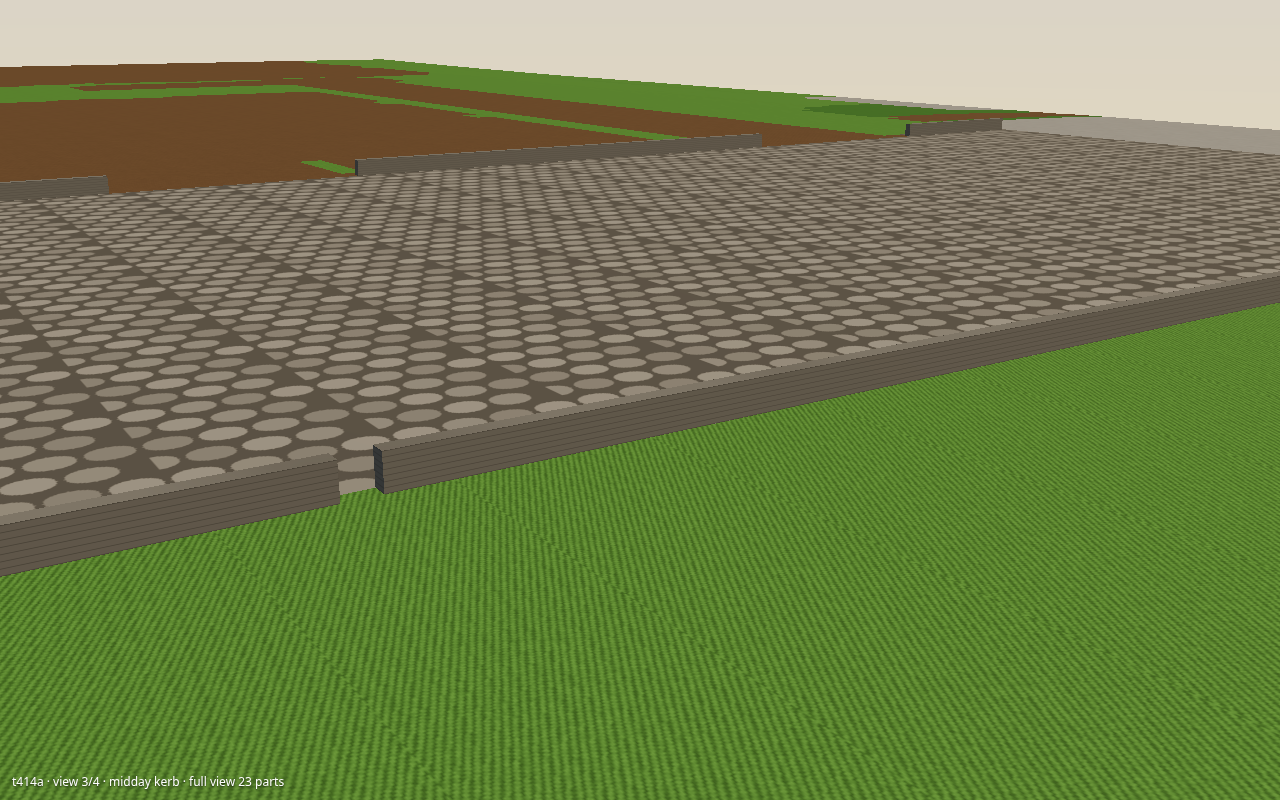
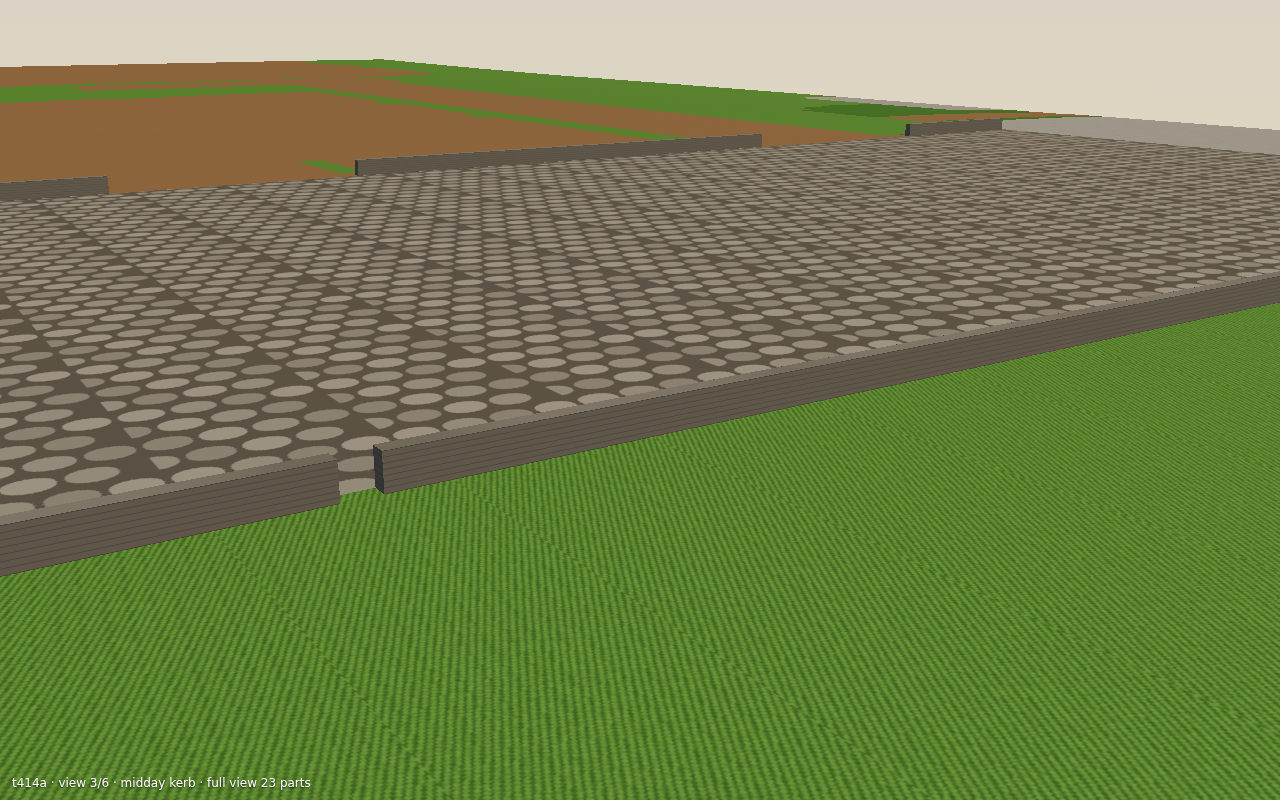
phase-2: reshoot T414a at midday with eye level, phone crop and East Link kerb, TrailDirt reads true

Changed region(s): [[0.0, 0.0625, 0.6875, 0.25], [0.0, 0.9688, 0.25, 1.0], [0.6875, 0.125, 0.8438, 0.1562]]

diff --git a/tools/preview/viewer.html b/tools/preview/viewer.html
@@ -220,7 +220,7 @@ function terrainPattern(name) {
     for (let y = 0; y < size; y++) for (let x = 0; x < size; x++) {
       const n = Math.abs(Math.sin(x * 12.9898 + y * 78.233) * 43758.5453) % 1;
       const blot = Math.abs(Math.sin(x * 0.31 + y * 0.47));
-      put(x, y, Math.floor(200 + n * 30 - blot * 45));
+      put(x, y, Math.floor(244 + n * 10 - blot * 24));
     }
   } else if (name === "Grass" || name === "LeafyGrass") {
     for (let y = 0; y < size; y++) for (let x = 0; x < size; x++) {

diff --git a/STATUS.md b/STATUS.md
@@ -4,7 +4,7 @@ Shed Blueprint: placing the ghost now costs $0 (Connor's decision, 13 Oct 2026; 
 
 ## T414a fixes (30 October 2026, branch `cursor/t414a-fixes`)
 
-Town roads, lanes, the lot and the footpaths are terrain paint (`TownGround.MaterialAt`, drawn by `TerrainGen.SurfaceMaterial`). Inside town the street is flat out to half-width 16.3, paved to 16, with the kerb at 16.15 (StoneBase slate `#8C877E`, 0.6 high, no collision, top from `HeightAt` on the kerb line). Grass blends outward only, from 16.3 to 20.3. A store pad and a homestead pad keep y = 0. Streets are Asphalt `#A8A49C`. Lanes and the lot are Cobblestone `#9C958A`. Footpaths are TrailDirt, 8 wide. No orange-red. `WorldLayout.PlanWidth` stays 28, and that assertion is for the road outside town: the T413 shoulder (14 to 18) still paints Ground there. `MapBuilder` and `TerrainBuilder` both require `TownGround` before the fill. The boot line includes `town ground` seconds. Known gap: `TownGroundArt.KerbMeshId` is 0, so the kerb is the slate bar until the mesh is uploaded. Shop pins, the mill, the Weigh House, bridges and docks did not move. Midday shots: `preview/t414a/`. Studio checks: PHASE2_NOTES.md "T414a fixes". Nothing here has been seen in Studio. Cloud has no physics.
+Town roads, lanes, the lot and the footpaths are terrain paint (`TownGround.MaterialAt`, drawn by `TerrainGen.SurfaceMaterial`). Inside town the street is flat out to half-width 16.3, paved to 16, with the kerb at 16.15 (StoneBase slate `#8C877E`, 0.6 high, no collision, top from `HeightAt` on the kerb line). Grass blends outward only, from 16.3 to 20.3. A store pad and a homestead pad keep y = 0. Streets are Asphalt `#A8A49C`. Lanes and the lot are Cobblestone `#9C958A`. Footpaths are TrailDirt, 8 wide. No orange-red. `WorldLayout.PlanWidth` stays 28, and that assertion is for the road outside town: the T413 shoulder (14 to 18) still paints Ground there. `MapBuilder` and `TerrainBuilder` both require `TownGround` before the fill. The boot line includes `town ground` seconds. Known gap: `TownGroundArt.KerbMeshId` is 0, so the kerb is the slate bar until the mesh is uploaded. Shop pins, the mill, the Weigh House, bridges and docks did not move. Midday shots: `preview/t414a/` (plaza top-down, phone-width crop, street and plaza eye level, kerb, East Link kerb outside the drive edge). They are three.js previews, not Studio lighting, and the preview cannot load uploaded Roblox meshes. The preview's Ground texture is lightened so TrailDirt reads `#8E6C4A`. Studio checks: PHASE2_NOTES.md "T414a fixes". Nothing here has been seen in Studio. Cloud has no physics.
 
 ## T413 roads, the car ferry, and the Skyroot climb (28 October 2026)
 
